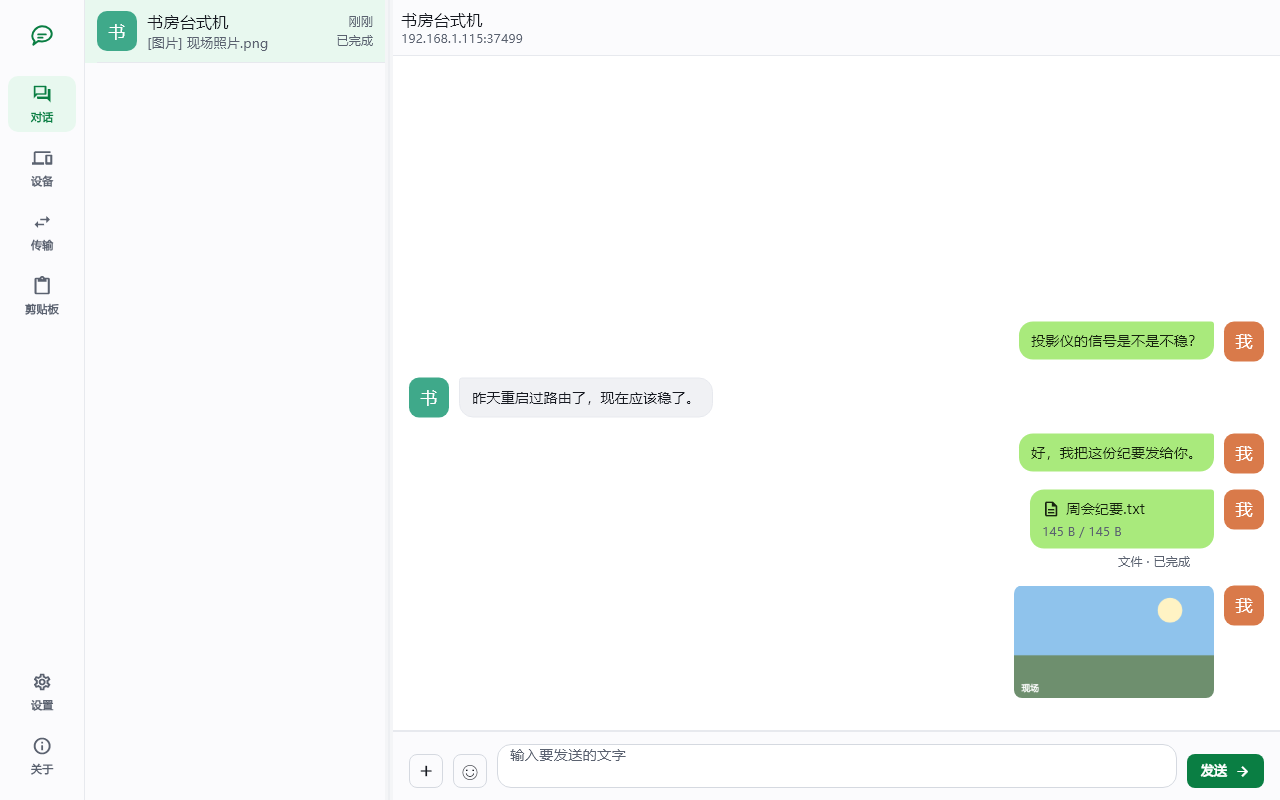
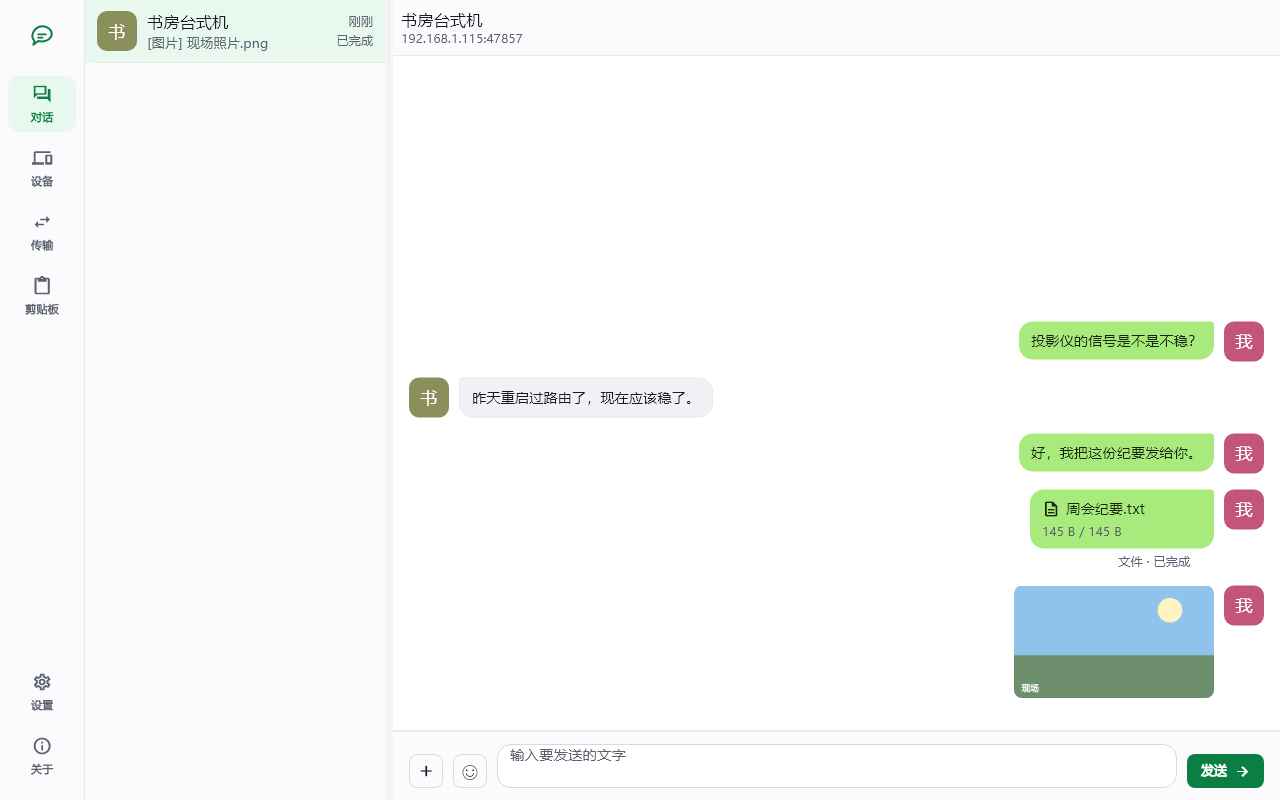
fix: 截图脚本产出可复现的图
每跑一次脚本都会换一张图：一台设备首次启动时铸出密钥对，指纹由它推出来；
被告知端口 0 的设备则拿操作系统随手给的端口。于是 diff 由指纹和端口组成，
而不是由界面组成 —— 一幅没法和上一幅对比的图，也就不是一张能当 diff 审的图。

现在给每台设备一颗固定的种子，并把四个端口钉在默认区间之上（默认会话端口
通常已被本机正在运行的应用占着，一个套接字不能被绑定两次）。连跑两次产出
的是逐字节相同的 PNG。

diff --git a/tool/screenshots/capture_screenshots.dart b/tool/screenshots/capture_screenshots.dart
@@ -46,6 +46,24 @@ const String capturedAddress = '192.168.1.115';
 const String capturedAlias = '我的笔记本';
 const String pairedAlias = '书房台式机';
 
+/// The ports the captured Devices are shown listening on.
+///
+/// A Device that is told port 0 takes whatever the operating system hands
+/// it, so the port in the picture would be a different one on every run —
+/// and a picture whose only difference from the last one is a port is a
+/// picture that cannot be compared with the last one.
+///
+/// Not the project's own default ports: a copy of the application is
+/// usually running on the machine that takes these pictures, and it holds
+/// 47655 already — a socket cannot be bound twice, and the capture would
+/// fail to serve a Session. These are above the default range for that
+/// reason, and they are four rather than two because both Devices run in
+/// this one process.
+const int capturedSessionPort = 47855;
+const int capturedPairingPort = 47856;
+const int peerSessionPort = 47857;
+const int peerPairingPort = 47858;
+
 /// The folder the captured Device is shown as saving received files into.
 ///
 /// A real path rather than the harness's own temporary one: a picture that
@@ -81,12 +99,31 @@ Future<void> _runCapture() async {
     final address = InternetAddress(capturedAddress);
 
     final home = tempDirectory('local-transfer-shot-');
+    // A fixed identity for each Device. A Device mints a key pair on first
+    // launch and its Fingerprint is derived from that key, so without this
+    // every run of the capture would produce a different picture for a
+    // reason that has nothing to do with the interface — and re-running the
+    // script to refresh the README's images would leave a diff made of
+    // fingerprints.
+    final meStore = await SeededProfileStore.overSeed(
+      List<int>.filled(32, 0x11),
+      alias: capturedAlias,
+      platform: DevicePlatform.windows,
+    );
+    final peerStore = await SeededProfileStore.overSeed(
+      List<int>.filled(32, 0x22),
+      alias: pairedAlias,
+      platform: DevicePlatform.windows,
+    );
     final me = await startUiDevice(
       tester,
       AddressedBeaconTransport(hub.a, address),
       capturedAlias,
       clipboardMode: ClipboardMode.stage,
       defaultIncomingDirectory: capturedIncomingDirectory,
+      profileStore: meStore,
+      sessionListenPort: capturedSessionPort,
+      pairingPort: capturedPairingPort,
     );
     final peer = await startUiDevice(
       tester,
@@ -94,6 +131,9 @@ Future<void> _runCapture() async {
       pairedAlias,
       platform: DevicePlatform.windows,
       defaultIncomingDirectory: home.path,
+      profileStore: peerStore,
+      sessionListenPort: peerSessionPort,
+      pairingPort: peerPairingPort,
     );
 
     await _pair(tester, me, peer);

diff --git a/test_flutter/support/screenshot_harness.dart b/test_flutter/support/screenshot_harness.dart
@@ -1,4 +1,5 @@
 import 'dart:async';
+import 'dart:convert';
 import 'dart:io';
 import 'dart:ui' as ui;
 
@@ -7,6 +8,65 @@ import 'package:flutter/services.dart';
 import 'package:flutter_test/flutter_test.dart';
 import 'package:local_transfer/core/core.dart';
 import 'package:local_transfer/ui/wechat/theme.dart';
+
+/// A profile store that hands out one fixed identity.
+///
+/// A Device mints a fresh key pair on first launch, and its Fingerprint is
+/// derived from that key — so two runs of the same capture show two
+/// different fingerprints, and the picture changes for a reason that has
+/// nothing to do with the interface. A seed makes the identity a fixed fact
+/// of the capture instead of a fresh one every time, so re-running it
+/// reproduces the same picture.
+final class SeededProfileStore implements ProfileStore {
+  /// Builds a store over the Ed25519 seed [seed].
+  ///
+  /// The seed is the private half of the Owner's key pair, and the
+  /// Fingerprint the Device announces is derived from the public half, so
+  /// the same seed always yields the same Device.
+  static Future<SeededProfileStore> overSeed(
+    List<int> seed, {
+    required String alias,
+    required DevicePlatform platform,
+  }) async {
+    final identity = await OwnerIdentity.fromSeed(seed);
+    final profile = DeviceProfile(
+      self: identity.fingerprint,
+      alias: alias,
+      platform: platform,
+    );
+    return SeededProfileStore._(await _profileJson(identity, profile));
+  }
+
+  SeededProfileStore._(this._json);
+
+  /// The stored profile, in the shape a [ProfileStore] holds it.
+  Map<String, Object?>? _json;
+
+  @override
+  Future<Map<String, Object?>?> load() async => _json;
+
+  @override
+  Future<void> save(Map<String, Object?> incoming) async {
+    _json = jsonDecode(jsonEncode(incoming)) as Map<String, Object?>;
+  }
+
+  /// The JSON a Device's profile is stored as.
+  ///
+  /// The same shape [saveLocalProfile] writes, built here rather than
+  /// through it because that one wants a [LocalProfile] and this wants the
+  /// seed it was made from.
+  static Future<Map<String, Object?>> _profileJson(
+    OwnerIdentity identity,
+    DeviceProfile profile,
+  ) async => {
+    'version': 1,
+    'identity': {
+      'kind': 'ed25519-seed',
+      'seed': toBase64Url(await identity.exportSeed()),
+    },
+    'profile': profile.toJson(),
+  };
+}
 
 /// The fonts a captured window needs, and where they are on this machine.
 ///

diff --git a/test_flutter/support/ui_harness.dart b/test_flutter/support/ui_harness.dart
@@ -109,7 +109,12 @@ final class UiDevice {
   final MemorySystemClipboard clipboard;
 
   /// Where the profile is kept — in memory, so nothing is left on disk.
-  final MemoryProfileStore store;
+  ///
+  /// A [ProfileStore] rather than a [MemoryProfileStore], because a test may
+  /// hand in a store that hands out a fixed identity: a Device mints a key
+  /// pair on first launch, and a picture of a Device whose Fingerprint
+  /// changes on every run is a picture that changes for no reason.
+  final ProfileStore store;
 
   /// Where the conversation is kept — in memory too, and handed back so that a
   /// test can stand a second Device up over the same one. That is the only way
@@ -158,6 +163,7 @@ Future<UiDevice> startUiDevice(
   int pairingPort = 0,
   ClipboardMode clipboardMode = ClipboardMode.off,
   String? profilePath,
+  ProfileStore? profileStore,
   String? defaultIncomingDirectory,
   DevicePlatform platform = DevicePlatform.windows,
   MessageStore? messageStore,
@@ -171,7 +177,7 @@ Future<UiDevice> startUiDevice(
 }) async {
   late final UiDevice device;
   await tester.runAsync(() async {
-    final store = MemoryProfileStore();
+    final store = profileStore ?? MemoryProfileStore();
     final clipboard = MemorySystemClipboard();
     // Handed in when a test wants a conversation to survive a restart: the
     // second Device over the same store is the restart.

diff --git a/.agents/notes/implemented/bug-fix/2026-10-21-the-readme-showed-nothing.md b/.agents/notes/implemented/bug-fix/2026-10-21-the-readme-showed-nothing.md
@@ -70,6 +70,28 @@ wrongly:
 The device names, addresses and ports in the pictures are examples, and the
 README says so.
 
+### The pictures are reproducible
+
+A capture that produces a different picture on every run cannot be compared
+with the one it replaced, so the script pins the two facts that would
+otherwise vary:
+
+- **The identity.** A Device mints an Ed25519 key pair on first launch, and
+  its Fingerprint is derived from that key — so an unpinned capture shows a
+  different Fingerprint every time, and the diff is made of fingerprints
+  rather than of the interface. `SeededProfileStore` hands each Device a
+  fixed seed, and the Fingerprint that comes out of it is a fixed fact of the
+  capture.
+- **The ports.** A Device told port 0 takes whatever the operating system
+  hands it. The capture pins four ports above the project's default range,
+  because a copy of the application is usually running on the machine that
+  takes the pictures and it holds the default session port already — a
+  socket cannot be bound twice.
+
+Two consecutive runs of the script now produce byte-identical PNGs, which is
+what makes the images reviewable as a diff: a change in the picture is a
+change in the interface.
+
 ## Testing
 
 - `flutter test tool/screenshots/capture_screenshots.dart` completes and writes
@@ -77,6 +99,7 @@ README says so.
   with real glyphs, the conversation shows a text bubble, a file bubble and an
   image bubble, and the picture in it is decoded rather than left as a
   placeholder.
+- Two consecutive runs produce byte-identical files, verified by SHA-256.
 - The six gates pass, unchanged by the README itself.
 
 ## Alternatives considered

diff --git a/.agents/notes/implemented/bug-fix/2026-10-21-the-readme-showed-nothing.zh.md b/.agents/notes/implemented/bug-fix/2026-10-21-the-readme-showed-nothing.zh.md
@@ -57,11 +57,28 @@ Status: implemented
 
 图里的设备名、地址与端口都是示例，README 里也是这么说的。
 
+### 这些图是可复现的
+
+一幅每跑一次就换一张的图，没法和它取代的那张对比，所以脚本把本来会变的两个事实
+钉死了：
+
+- **身份。** 设备首次启动时铸出一对 Ed25519 密钥，而它的指纹是从那把密钥推出来的
+  —— 所以不钉住身份的话，每次截图的指纹都不一样，于是那个 diff 由指纹组成，
+  而不是由界面组成。`SeededProfileStore` 给每台设备一颗固定的种子，从它出来的
+  指纹就成了截图本身的一个固定事实。
+- **端口。** 被告知端口 0 的设备会拿操作系统随手给的那个。截图把四个端口钉在项目
+  默认端口区间之上，因为拍这些图的机器上通常正跑着一份这个应用，而它已经占着默认
+  的会话端口了 —— 一个套接字不能被绑定两次。
+
+现在脚本连跑两次产出的是逐字节相同的 PNG，这正是这些图能当 diff 来审的原因：
+图变了，就是界面变了。
+
 ## Testing
 
 - `flutter test tool/screenshots/capture_screenshots.dart` 跑通并写出五张 PNG。
   每张都打开看过：每个界面的中文都是真正的字形，会话里有文字气泡、文件气泡和
   图片气泡，图片气泡里那张图是解出来的，而不是留着一个占位块。
+- 连跑两次产出逐字节相同的文件，用 SHA-256 核过。
 - 六道门禁全过；README 本身的改动不触及它们。
 
 ## Alternatives considered

diff --git a/README.md b/README.md
@@ -55,4 +55,5 @@ flutter test tool/screenshots/capture_screenshots.dart
 ```
 
 这个脚本会重写 `docs/screenshots/` 里的图片，因此它不在 `test_flutter/` 里 —— 一个每次运行都改写
-仓库文档的测试套件，没人会相信它是绿的。
+仓库文档的测试套件，没人会相信它是绿的。同一份源码连跑两次产出的是逐字节相同的图，
+所以这些图能当 diff 来审：图变了，就是界面变了。
